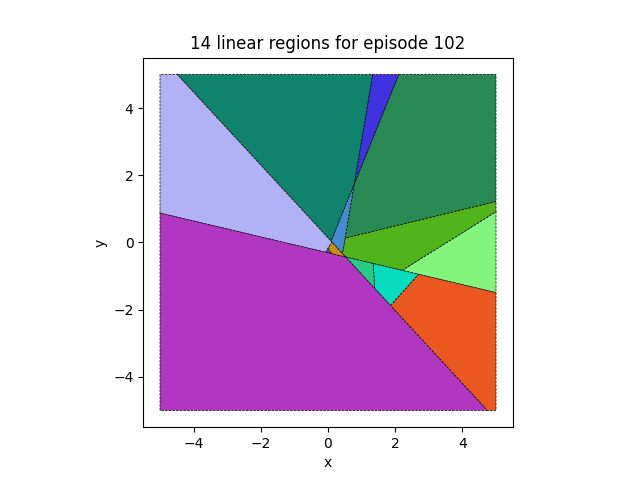
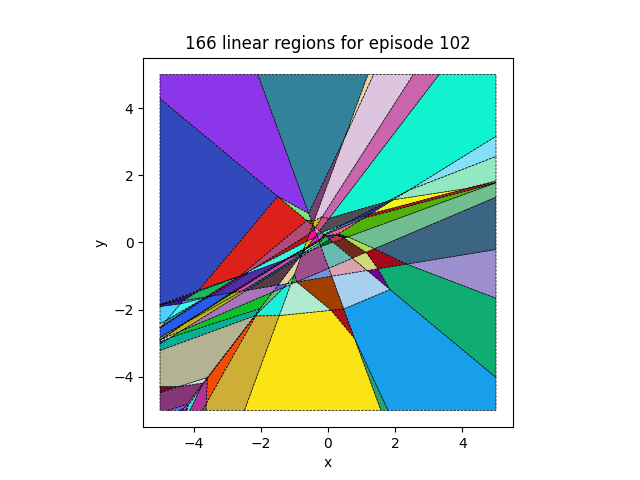
working towards linear region visu

diff --git a/ddpg/utils.py b/ddpg/utils.py
@@ -17,7 +17,7 @@ def plotQ(agent: Agent, iter) -> None:
     "plots a 2D canvas of the Q-function for a given state and action"
     size = 50
     QArray = np.zeros((size, size))
-    print(f"plotting the Q-function for best action")
+    print(f"plotting the Q-function for best action ...")
     for xIdx, x in enumerate(np.linspace(-6, 6, size)):
         print(f"{round(100*(xIdx/size))} % computed")
         for yIdx, y in enumerate(np.linspace(6, -6, size)):
@@ -51,14 +51,14 @@ def plotAction(agent: Agent, iter) -> None:
     fig = plt.figure()
     ax = fig.add_subplot(1, 2, 1)
     imgplot = plt.imshow(AXArray, interpolation='nearest',
-                         cmap='hot', extent=[-6, 6, -6, 6])
+                         cmap='hot', extent=[-5, 5, -5, 5])
     plt.colorbar(ticks=[0.1, 0.3, 0.5, 0.7], orientation='horizontal')
     plt.xlabel("x")
     plt.ylabel("y")
     plt.title(f"u_x(x,y)")
     ax = fig.add_subplot(1, 2, 2)
     imgplot = plt.imshow(AYArray, interpolation='nearest',
-                         cmap='hot', extent=[-6, 6, -6, 6])
+                         cmap='hot', extent=[-5, 5, -5, 5])
     plt.colorbar(ticks=[0.1, 0.3, 0.5, 0.7], orientation='horizontal')
     plt.xlabel("x")
     plt.title("u_y(x,y)")
@@ -68,7 +68,7 @@ def plotAction(agent: Agent, iter) -> None:
 
 def plotActionVectors(agent: Agent, env, iter) -> None:
     "plots a 2D canvas of the x input for a given state"
-    print("Generating action space figure ...")
+    print("Generating action vectors ...")
     size = 20
     x = np.linspace(-5, 5, size)
     y = np.linspace(-5, 5, size)
@@ -97,6 +97,7 @@ def plotActionVectors(agent: Agent, env, iter) -> None:
 def plotLinearRegion(agent: Agent, iter) -> None:
     "plots the linear regions of the Neural Network"
 
+    print("Generating the linear regions of the action space ...")
     A_border = np.array([[1.0, 0.0],
                         [-1.0, 0.0],
                         [0.0, 1.0],
@@ -120,7 +121,6 @@ def plotLinearRegion(agent: Agent, iter) -> None:
                 new_regions.append(kid)
         regions = new_regions
 
-    print(len(new_regions))
     fig, ax = plt.subplots()
     for region in new_regions:
         region.polytope.plot(ax, linewidth=0.5, linestyle='--')
@@ -149,10 +149,8 @@ class Region:
         W = self.w_actif
         B = self.b_actif
         for neuron in range(W.shape[0]):
-            w = np.array(W[:, neuron])
+            w = np.array(W[neuron, :])
             b = np.array(B[neuron])
-            print(self.polytope.A)
-            print(w)
             cut = pc.Polytope(np.vstack((self.polytope.A, -w)),
                               np.append(self.polytope.b, b))
             self.cuts.append(cut)
@@ -174,7 +172,6 @@ class Region:
         W = np.transpose(weights[0])
         B = np.transpose([weights[1]])
         self.w_actif = np.matmul(W, np.matmul(self.old_S, self.old_w_actif))
-        print(self.w_actif.shape)
         self.b_actif = np.matmul(W, np.dot(
             self.old_S, self.old_b_actif)) + B
 

diff --git a/ddpg/agent.py b/ddpg/agent.py
@@ -15,8 +15,8 @@ class Agent():
     def __init__(self, num_actions, num_states) -> None:
         self.actionDim = num_actions
         self.stateDim = (num_states,)
-        self.actorMain = Actor(self.stateDim, self.actionDim, 2, 2, 2)
-        self.actorTarget = Actor(self.stateDim, self.actionDim, 2, 2, 2)
+        self.actorMain = Actor(self.stateDim, self.actionDim, 3, 3, 3)
+        self.actorTarget = Actor(self.stateDim, self.actionDim, 3, 3, 3)
         self.criticMain = Critic(self.stateDim, 1, 512, 512)
         self.criticTarget = Critic(self.stateDim, 1, 512, 512)
 
